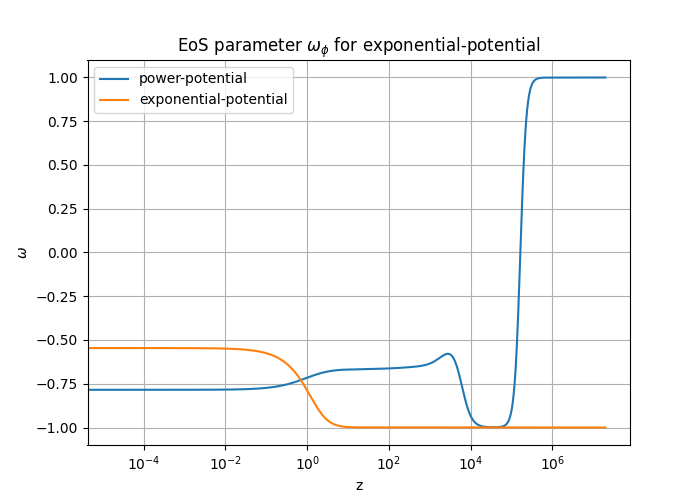
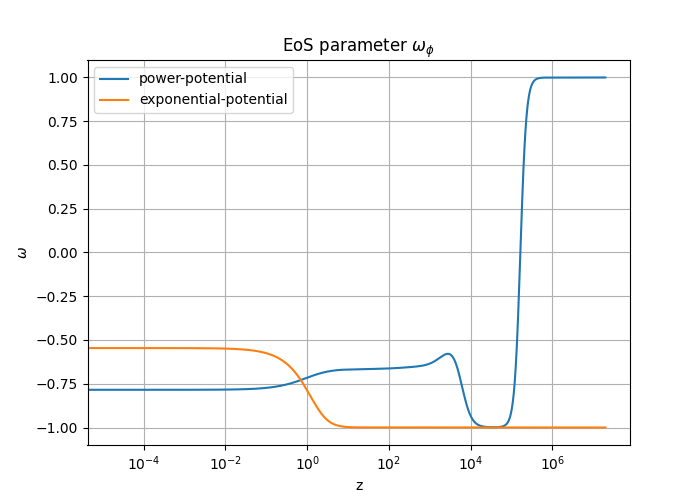
figure title

Changed region(s): [[0.24, 0.06, 0.78, 0.12]]

diff --git a/Projects/Project 1/scripts/problem9.py b/Projects/Project 1/scripts/problem9.py
@@ -265,7 +265,7 @@ def plot_eos_parameters(
     plt.xscale("log")
     plt.xlabel("z")
     plt.ylabel(r"$\omega$")
-    plt.title(f"EoS parameter $\omega_\phi$ for {V}-potential")
+    plt.title(f"EoS parameter $\omega_\phi$")
     plt.savefig(filename)
 
 
